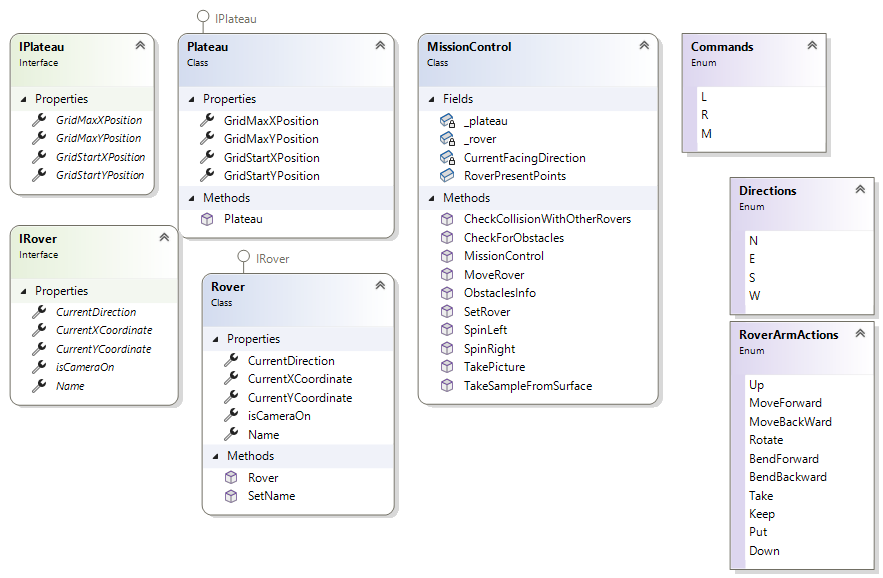
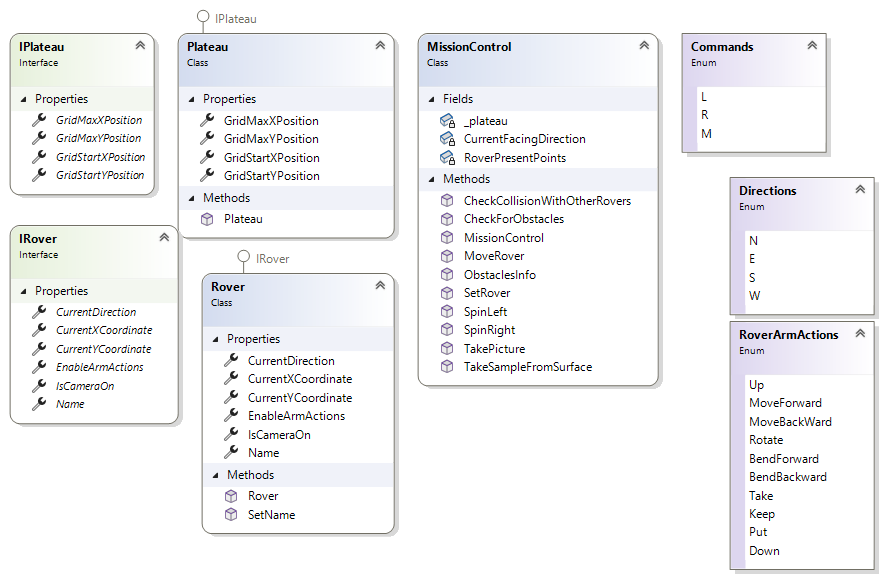
Removed all commented code and did Refraction

Changed region(s): [[0.4587, 0.218, 0.7644, 0.7163], [0.214, 0.7163, 0.4587, 0.9343], [0.0, 0.6228, 0.214, 0.7474]]

diff --git a/MarsRoverApp/Models/MissionControl.cs b/MarsRoverApp/Models/MissionControl.cs
@@ -11,14 +11,12 @@ namespace MarsRoverApp.Models
     public class MissionControl
     {
         private readonly IPlateau _plateau;
-        private Rover _rover;
         private Directions CurrentFacingDirection;
-        public static Hashtable RoverPresentPoints = new Hashtable();
+        private static Hashtable RoverPresentPoints = new Hashtable();
 
         public MissionControl(IPlateau plateau)
         {
             _plateau = plateau;
-            _rover = new Rover();
         }
 
 
@@ -53,42 +51,6 @@ namespace MarsRoverApp.Models
             _rover.CurrentYCoordinate = yCo;
             _rover.CurrentDirection = strCurrentPosition[2];
         }
-        /*
-        /// <summary>
-        /// Move Rover - According to the Commands after checking all the validations.
-        /// </summary>
-        /// <param name="strCommands"></param>
-        /// <returns></returns>
-        /// <exception cref="ArgumentException"></exception>
-        public string MoveRover(string strCommands)
-        {
-            string strRoversNewPositionMessage = _DoCommand.DoMoveRover(strCommands, _rover);
-            _rover.CurrentXCoordinate = Int32.Parse(strRoversNewPositionMessage.Substring(0, 1));
-            _rover.CurrentYCoordinate = Int32.Parse(strRoversNewPositionMessage.Substring(1, 1));
-            _rover.CurrentDirection = strRoversNewPositionMessage[2];
-            if (strRoversNewPositionMessage.Length == 3)
-                return strRoversNewPositionMessage.Substring(0, 3);
-            else
-                throw new ArgumentException(strRoversNewPositionMessage.Substring(3));
-        }*/
-
-        /// <summary>
-        /// The List of Obstacle Points will be added
-        /// </summary>
-        /// <returns>List<Point></returns>
-        public List<Point> ObstaclesInfo()
-        {
-            var ObstaclePoints = new List<Point>();
-            Point ObstaclePoint = new Point();
-            ObstaclePoint.X = 4;
-            ObstaclePoint.Y = 4;
-            ObstaclePoints.Add(ObstaclePoint);
-            ObstaclePoint.X = 3;
-            ObstaclePoint.Y = 5;
-            ObstaclePoints.Add(ObstaclePoint);
-            return ObstaclePoints;
-        }
-
 
         /// <summary>
         /// It takes Commands to Move and Rover as inputs and move the Rover to the New Position. It checks for any 
@@ -158,7 +120,6 @@ namespace MarsRoverApp.Models
                                 }
                             case Directions.E:
                                 {
-                                    //Console.WriteLine("Inside E");
                                     CurrentPoint.X += 1;
 
                                     if (CurrentPoint.X > GridMaxXPosition)
@@ -174,7 +135,6 @@ namespace MarsRoverApp.Models
                                     }
                                     if (CheckForObstacles(ObstaclesInfo(), CurrentPoint))
                                     {
-                                        //Console.WriteLine("Inside E. CheckforObstacles");
                                         CurrentPoint.X -= 1;
                                         strErrorMessage = "Cannot Move Rover Further. Because Obstacle is present over there.";
                                     }
@@ -204,7 +164,6 @@ namespace MarsRoverApp.Models
                                 }
                             case Directions.W:
                                 {
-                                    //Console.WriteLine("Inside W");
                                     CurrentPoint.X -= 1;
 
                                     if (CurrentPoint.X < GridStartXPosition)
@@ -251,11 +210,7 @@ namespace MarsRoverApp.Models
             if (strErrorMessage == "")
                 return CurrentPoint.X.ToString() + CurrentPoint.Y.ToString() + Char.ToString(CurrentDirection);
             else
-            {
-                //strErrorMessage = CurrentPoint.X.ToString() + CurrentPoint.Y.ToString() + Char.ToString(CurrentDirection) + strErrorMessage;
-                //return strErrorMessage;
                 throw new ArgumentException(strErrorMessage);
-            }
         }
 
         /// <summary>
@@ -327,6 +282,23 @@ namespace MarsRoverApp.Models
         }
 
         /// <summary>
+        /// The List of Obstacle Points will be added
+        /// </summary>
+        /// <returns>List<Point></returns>
+        public List<Point> ObstaclesInfo()
+        {
+            var ObstaclePoints = new List<Point>();
+            Point ObstaclePoint = new Point();
+            ObstaclePoint.X = 4;
+            ObstaclePoint.Y = 4;
+            ObstaclePoints.Add(ObstaclePoint);
+            ObstaclePoint.X = 3;
+            ObstaclePoint.Y = 5;
+            ObstaclePoints.Add(ObstaclePoint);
+            return ObstaclePoints;
+        }
+
+        /// <summary>
         /// It checks for any Obstacle is present in the CurrentPoint to stop moving to this point
         /// </summary>
         /// <param name="ObstaclePoints"></param>
@@ -367,12 +339,12 @@ namespace MarsRoverApp.Models
         }
 
         /// <summary>
-        /// It just turns on the Camera
+        /// It just turns on the Camera 
         /// </summary>
         /// <returns>Success</returns>
         public string TakePicture(Rover _rover)
         {
-            _rover.isCameraOn = true;
+            _rover.IsCameraOn = true;
             return "Success";
         }
 
@@ -382,6 +354,7 @@ namespace MarsRoverApp.Models
         /// <returns>Success</returns>
         public string TakeSampleFromSurface(Rover _rover)
         {
+            _rover.EnableArmActions = true;
             var ArmActions = new List<string>();
             ArmActions.Add(RoverArmActions.Up.ToString());
             ArmActions.Add(RoverArmActions.MoveForward.ToString());

diff --git a/MarsRoverApp/Models/Rover.cs b/MarsRoverApp/Models/Rover.cs
@@ -17,36 +17,13 @@ namespace MarsRoverApp.Models
 
         public char CurrentDirection { get; set; }
 
-        /*public int GridMaxXPosition { get; private set; }
-
-        public int GridMaxYPosition { get; private set; }
-
-        public int GridStartXPosition { get; private set; }
-
-        public int GridStartYPosition { get; private set; }*/
-        //public List<Point> ObstaclesInfo;
-
-        public bool isCameraOn { get; set; }
+        public bool IsCameraOn { get; set; }
+        public bool EnableArmActions { get; set; }
         public string Name { get; private set; }
-
-        //public RoverArmActions RoverArmActions;
-        //private DoCommand _DoCommand = new();
-
-        //public static Hashtable RoverPresentPoints = new Hashtable();
-
         public void SetName(string sName)
         {
             Name = sName;
         }
-
-        /*public void GetPlateauInfo(Plateau objPlateau)
-        {
-            GridStartXPosition = objPlateau.GridStartXPosition;
-            GridStartYPosition = objPlateau.GridStartYPosition;
-            GridMaxXPosition = objPlateau.GridMaxXPosition;
-            GridMaxYPosition = objPlateau.GridMaxYPosition;
-            ObstaclesInfo = objPlateau.ObstaclesInfo();
-        }*/
 
         /// <summary>
         /// Constructor - sets all default values
@@ -56,86 +33,9 @@ namespace MarsRoverApp.Models
             CurrentXCoordinate = 0;
             CurrentYCoordinate = 0;
             CurrentDirection = 'N';
-            isCameraOn = false;
+            IsCameraOn = false;
+            EnableArmActions = false;
             Name = "";
-            //ObstaclesInfo = new List<Point>();
         }
-        /*
-        /// <summary>
-        /// Place the Rover in the Position Given after checking all the validations
-        /// </summary>
-        /// <param name="strCurrentPosition"></param>
-        /// <exception cref="ArgumentException"></exception>
-        public void SetRover(string? strCurrentPosition)
-        {
-            if (String.IsNullOrEmpty(strCurrentPosition))
-            {
-                if(strCurrentPosition == null)
-                    throw new ArgumentException("Invalid Start Position for Rover. The Input is NULL");
-                else
-                    throw new ArgumentException("Invalid Start Position for Rover. The Input is Empty");
-            }
-
-            if (strCurrentPosition.Length != 3)
-                throw new ArgumentException("Invalid Start Position for Rover - The Correct Input Format is 'XXX'");
-
-            if (!Enum.IsDefined(typeof(Directions), strCurrentPosition.Substring(2, 1)))
-                throw new ArgumentException("Invalid Start Position for Rover - The Correct Directions are 'N,E,S,W");
-
-            var xCo = Int32.Parse(strCurrentPosition.Substring(0, 1));
-            var yCo = Int32.Parse(strCurrentPosition.Substring(1, 1));
-
-            if (xCo > GridMaxXPosition || yCo > GridMaxYPosition)
-                throw new ArgumentException("Invalid Start Position for Rover - The Co-Ordinates are Beyond the Grid Position");
-
-            CurrentXCoordinate = xCo;
-            CurrentYCoordinate = yCo;
-            CurrentDirection = strCurrentPosition[2];
-        }
-
-        /// <summary>
-        /// Move Rover - According to the Commands after checking all the validations.
-        /// </summary>
-        /// <param name="strCommands"></param>
-        /// <returns></returns>
-        /// <exception cref="ArgumentException"></exception>
-        public string MoveRover(string strCommands)
-        {
-            string strRoversNewPositionMessage = _DoCommand.DoMoveRover(strCommands, this);
-            CurrentXCoordinate = Int32.Parse(strRoversNewPositionMessage.Substring(0, 1));
-            CurrentYCoordinate = Int32.Parse(strRoversNewPositionMessage.Substring(1, 1));
-            CurrentDirection = strRoversNewPositionMessage[2];
-            if (strRoversNewPositionMessage.Length == 3)
-                return strRoversNewPositionMessage.Substring(0,3);
-            else
-                throw new ArgumentException(strRoversNewPositionMessage.Substring(3));
-        }
-
-        /// <summary>
-        /// It just turns on the Camera
-        /// </summary>
-        /// <returns>Success</returns>
-        public string TakePicture()
-        {
-            isCameraOn = true;
-            return "Success";
-        }
-
-        /// <summary>
-        /// Gives list of actions to be executed to take sample from Surface.
-        /// </summary>
-        /// <returns>Success</returns>
-        public string TakeSampleFromSurface()
-        {
-            var ArmActions = new List<string>();
-            ArmActions.Add(RoverArmActions.Up.ToString());
-            ArmActions.Add(RoverArmActions.MoveForward.ToString());
-            ArmActions.Add(RoverArmActions.BendForward.ToString());
-            ArmActions.Add(RoverArmActions.Take.ToString());
-            ArmActions.Add(RoverArmActions.Keep.ToString());
-            ArmActions.Add(RoverArmActions.Put.ToString());
-            ArmActions.Add(RoverArmActions.Down.ToString());
-            return "Success";
-        }*/
     }
 }

diff --git a/MarsRoverApp/Models/Plateau.cs b/MarsRoverApp/Models/Plateau.cs
@@ -22,24 +22,5 @@ namespace MarsRoverApp.Models
             GridMaxXPosition = MaxX;
             GridMaxYPosition = MaxY;
         }
-
-        //public Rover rover { get; set; }    
-        /*
-        /// <summary>
-        /// The List of Obstacle Points will be added
-        /// </summary>
-        /// <returns>List<Point></returns>
-        public List<Point> ObstaclesInfo()
-        {
-            var ObstaclePoints = new List<Point>();
-            Point ObstaclePoint = new Point();
-            ObstaclePoint.X = 4;
-            ObstaclePoint.Y = 4;
-            ObstaclePoints.Add(ObstaclePoint);
-            ObstaclePoint.X = 3;
-            ObstaclePoint.Y = 5;
-            ObstaclePoints.Add(ObstaclePoint);
-            return ObstaclePoints;
-        }*/
     }
 }

diff --git a/MarsRoverApp/Models/IRover.cs b/MarsRoverApp/Models/IRover.cs
@@ -11,14 +11,8 @@ namespace MarsRoverApp.Models
         int CurrentXCoordinate { get; }
         int CurrentYCoordinate { get; }
         char CurrentDirection { get; }
-        bool isCameraOn { get; }
+        bool IsCameraOn { get; }
+        bool EnableArmActions { get; }
         string Name { get; }
-
-        /*void SetRover(string strCurrentPosition);
-        void GetPlateauInfo(Plateau objPlateau);
-        string MoveRover(string strCommands);
-        string TakePicture();
-        string TakeSampleFromSurface();
-        void SetName(string Name);*/
     }
 }

diff --git a/MarsRoverApp.Tests/PlateauTests.cs b/MarsRoverApp.Tests/PlateauTests.cs
@@ -10,7 +10,7 @@ namespace MarsRoverApp.Tests
 {
     public class PlateauTests
     {
-        public Plateau _Plateau;
+        private Plateau _Plateau;
         private int _MaxX;
         private int _MaxY;
 

diff --git a/MarsRoverApp/Models/IPlateau.cs b/MarsRoverApp/Models/IPlateau.cs
@@ -12,7 +12,5 @@ namespace MarsRoverApp
         int GridStartYPosition { get; }
         int GridMaxYPosition { get; }
         int GridMaxXPosition { get; }
-
-        //List<Point> ObstaclesInfo();
     }
 }
